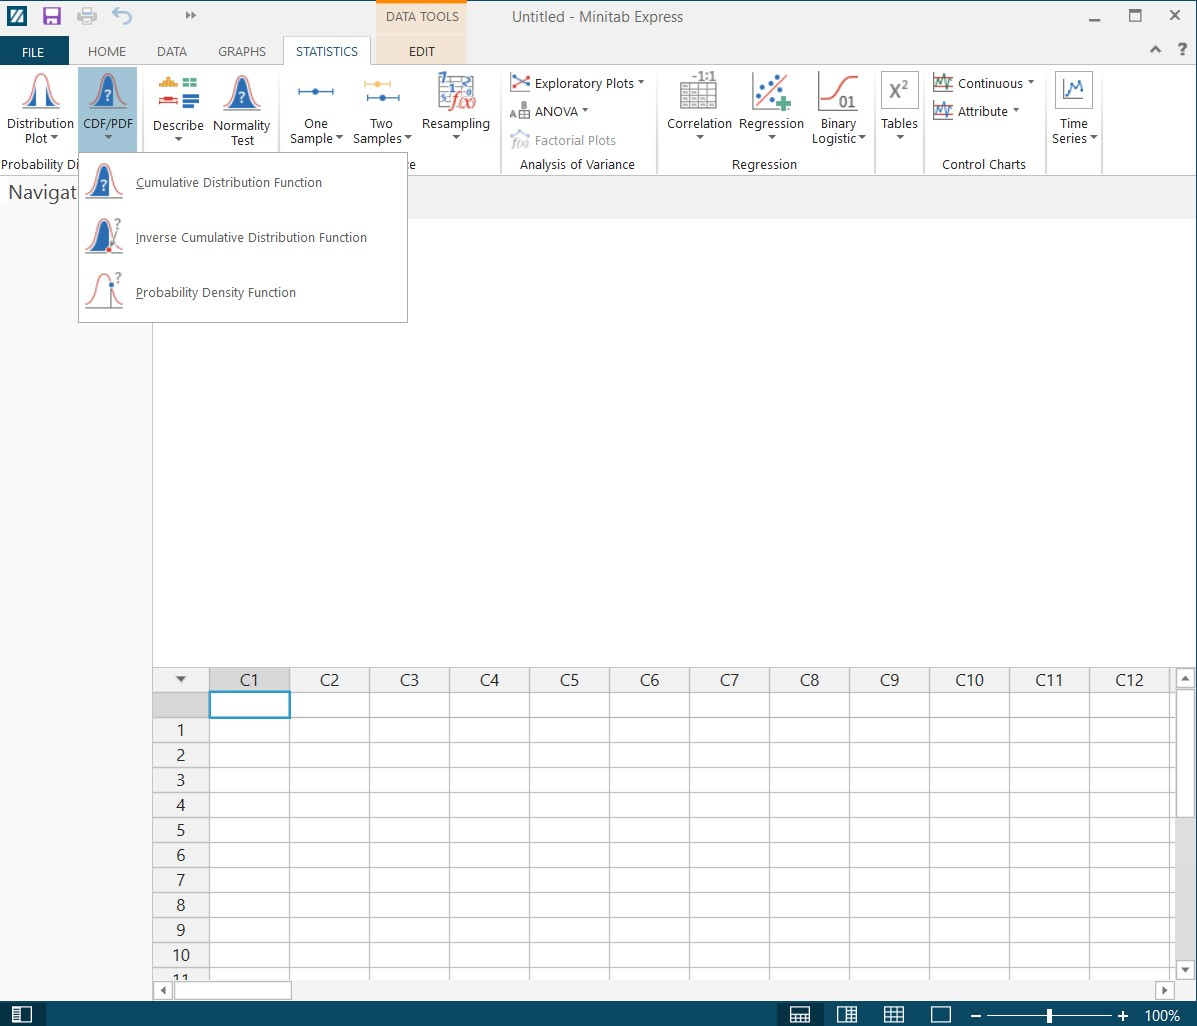
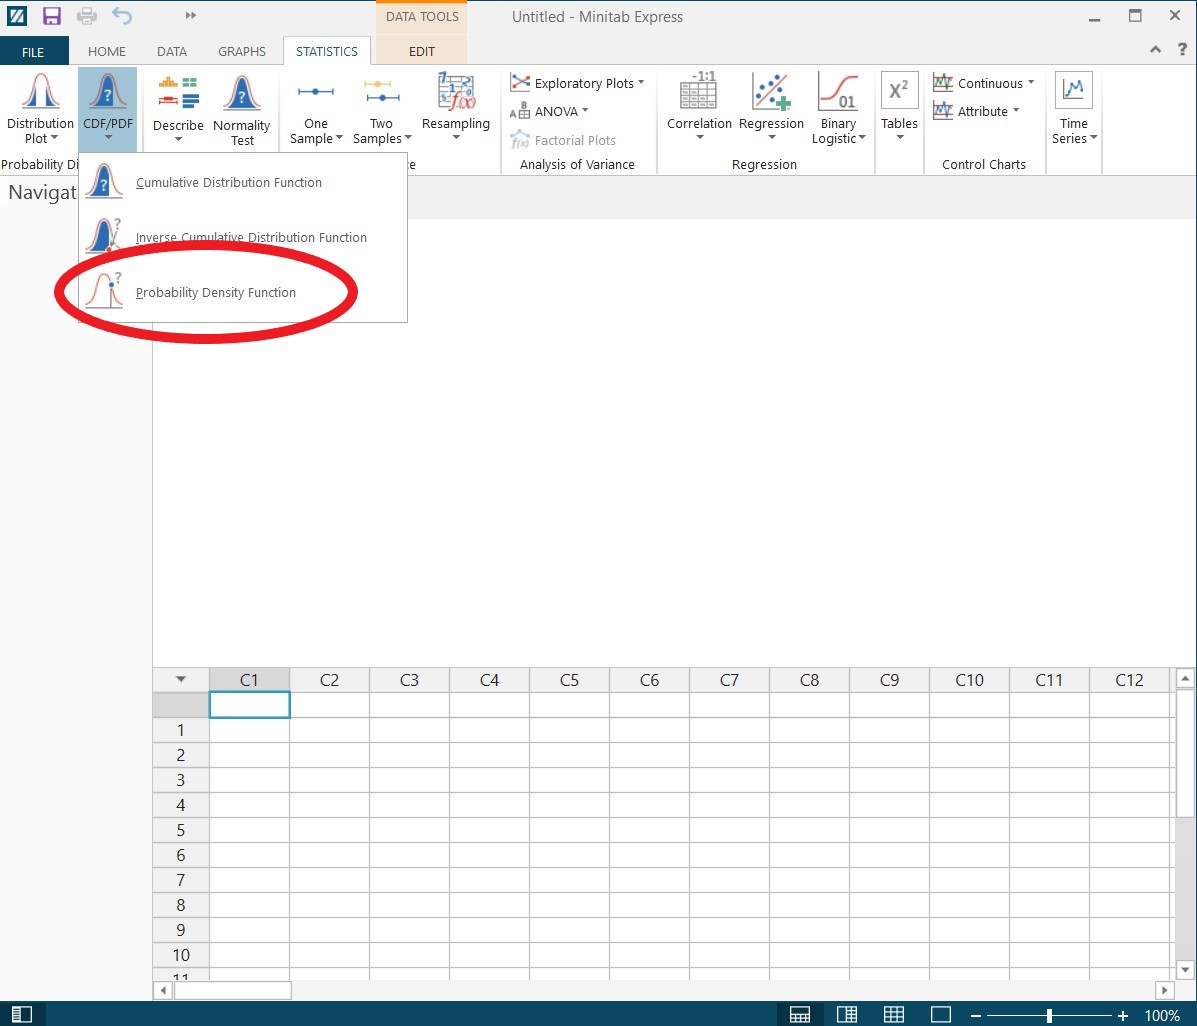
updated minitab 3a

Changed region(s): [[0.0309, 0.2495, 0.3091, 0.3431], [0.0927, 0.2183, 0.2473, 0.2495]]

diff --git a/_posts/2021-04-29-sp-minitab.md b/_posts/2021-04-29-sp-minitab.md
@@ -72,5 +72,7 @@ The following table details the steps used to complete the task.
 
 | Action    | image |
 | ----------- | ----------- |
+|<strong>Generating probability density value</strong>|![probability density step 1](/assets/images/sp-minitab/3A/T1-S1.jpg)<br><br>![probability density step 2](/assets/images/sp-minitab/3A/T1-S2.jpg)<em>forming stack columns<em><br><br>![probability density op](/assets/images/sp-minitab/3A/T1-OP.jpg)<em>Probability density value generated<em>|
+
 
 ![WIP](/assets/images/common/WIP.png)
